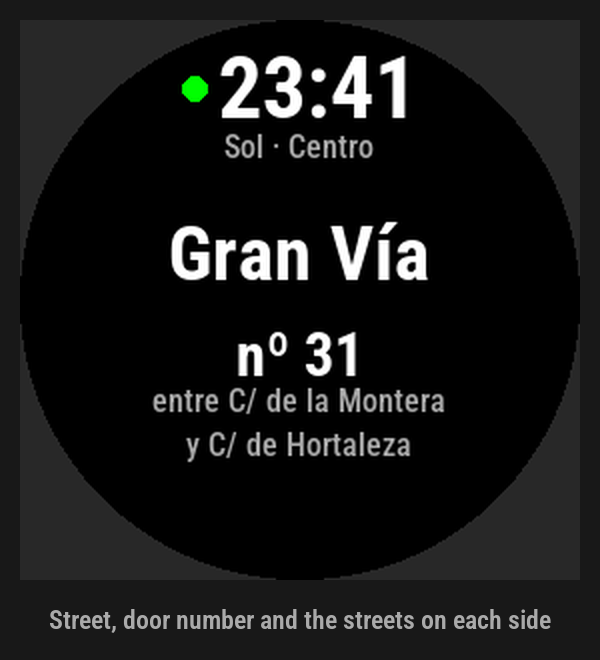
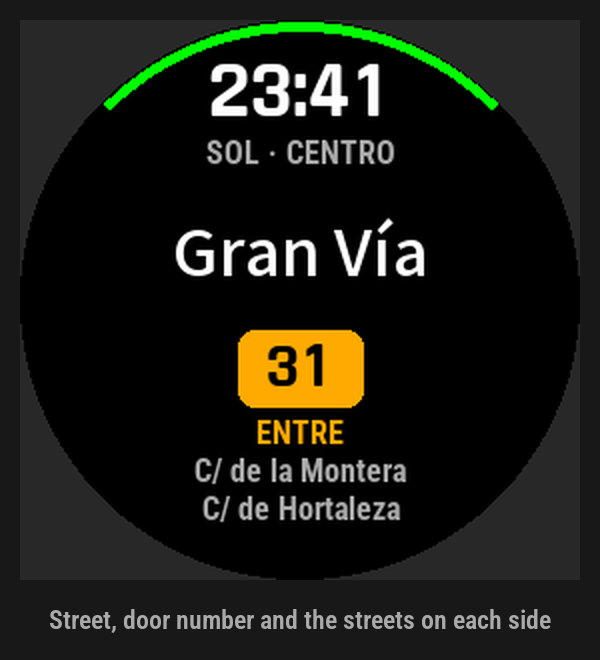
CALLE Madrid 3.4.0: la interfaz de Galicia (P73), carátula sobre Sol e imágenes de la tienda
- tools/caratula.py: la carátula B por región (Galicia: Santiago; Madrid: Puerta del Sol); --instalar escribe las dos.
- tools/mockup.py: la portada de Madrid es ya la carátula, no una pantalla.
- docs/tienda/: las cinco imágenes de Madrid con la interfaz v3.4 y las novedades 3.4.0 (es/en).
- bin/calle-madrid.iq (52,5 MB, 14 dispositivos, firma verificada): lo sube el autor a mano.

Changed region(s): [[0.24, 0.4848, 0.75, 0.7879], [0.18, 0.0303, 0.84, 0.2727], [0.27, 0.3333, 0.72, 0.4242]]

diff --git a/tools/caratula.py b/tools/caratula.py
@@ -3,10 +3,12 @@
 
     tools/caratula.py            las tres propuestas → tools/out/caratulas.png (hoja para elegir)
                                  y tools/out/caratula_<X>.png / icono_<X>.png
-    tools/caratula.py --instalar la elegida (B, 2026-10-25): docs/tienda/galicia/portada_500.png y el icono
-                                 del lanzador, resources/drawables/launcher_icon.png (de todas las apps CALLE)
+    tools/caratula.py --instalar la elegida (B, 2026-10-25): docs/tienda/galicia/portada_500.png,
+                                 docs/tienda/portada_500.png (Madrid) y el icono del lanzador,
+                                 resources/drawables/launcher_icon.png (de todas las apps CALLE)
 
-El fondo es el callejero real del casco de Santiago (tools/out/geom-galicia.json, ODbL), dibujado tenue.
+El fondo es el callejero real de cada app (tools/out/geom-<región>.json, ODbL), dibujado tenue: el casco de
+Santiago en Galicia y la Puerta del Sol en Madrid.
 La pantalla del reloj sale de tools/mockup.py (la escena «Santiago: Rúa do Franco», datos reales).
 """
 import json
@@ -24,6 +26,7 @@ NEGRO, FONDO = (0, 0, 0), (17, 17, 17)
 BLANCO, GRIS, GRIS_OSC = (255, 255, 255), (0xAA, 0xAA, 0xAA), (0x55, 0x55, 0x55)
 AMBAR, AZUL_PLACA = (0xFF, 0xAA, 0x00), (0x1F, 0x3B, 0x73)
 CENTRO = (42.8792, -8.5446)   # casco de Santiago, entre el Obradoiro y la Quintana
+CENTROS = {"galicia": CENTRO, "madrid": (40.4169, -3.7035)}   # Madrid: la Puerta del Sol
 LADO_M = 900                  # metros de mapa que caben en la carátula
 
 
@@ -33,10 +36,10 @@ def fuente(px, peso=700):
     return f
 
 
-def mapa(lado, color, ancho, centro=CENTRO, lado_m=LADO_M, esc=4):
+def mapa(lado, color, ancho, centro=CENTRO, lado_m=LADO_M, esc=4, region="galicia"):
     """El callejero real alrededor de centro, lado_m metros en lado px (dibujado a esc× y reducido)."""
-    meta = json.loads((OUT / "meta-galicia.json").read_text("utf-8"))
-    geom = json.loads((OUT / "geom-galicia.json").read_text("utf-8"))
+    meta = json.loads((OUT / f"meta-{region}.json").read_text("utf-8"))
+    geom = json.loads((OUT / f"geom-{region}.json").read_text("utf-8"))
     cx = (centro[1] - meta["lon_min"]) * meta["kx"]
     cy = (centro[0] - meta["lat_min"]) * meta["ky"]
     g = lado * esc
@@ -128,9 +131,9 @@ def icono_a(lado=40, esc=8):
 
 # ---------------------------------------------------------------- B: el marcador en el cruce
 
-def caratula_b():
+def caratula_b(region="galicia"):
     img = Image.new("RGBA", (500, 500), FONDO + (255,))
-    img.alpha_composite(mapa(500, (0x4A, 0x4A, 0x4A), 2.6))
+    img.alpha_composite(mapa(500, (0x4A, 0x4A, 0x4A), 2.6, centro=CENTROS[region], region=region))
     velo = Image.new("RGBA", (500, 500), (0, 0, 0, 0))
     ImageDraw.Draw(velo).rectangle((0, 330, 500, 500), fill=(10, 10, 10, 235))
     img.alpha_composite(velo)
@@ -138,7 +141,7 @@ def caratula_b():
     d.ellipse((250 - 60, 175 - 60, 250 + 60, 175 + 60), outline=AMBAR + (255,), width=3)
     marcador(d, 250, 140, 38, AMBAR + (255,), hueco=FONDO + (255,))
     texto(d, (250, 382), "CALLE", fuente(78), BLANCO, espacio=8)
-    texto(d, (250, 432), "GALICIA", fuente(28, 500), AMBAR, espacio=12)
+    texto(d, (250, 432), region.upper(), fuente(28, 500), AMBAR, espacio=12)
     texto(d, (250, 470), "LA CALLE Y EL PORTAL, SIN COBERTURA", fuente(21, 500), GRIS, espacio=1)
     return img.convert("RGB")
 
@@ -203,8 +206,10 @@ def main():
     import sys
     if "--instalar" in sys.argv:
         caratula_b().save(ROOT / "docs" / "tienda" / "galicia" / "portada_500.png", optimize=True)
+        caratula_b("madrid").save(ROOT / "docs" / "tienda" / "portada_500.png", optimize=True)
         icono_b().save(ROOT / "resources" / "drawables" / "launcher_icon.png")
-        print("escrito docs/tienda/galicia/portada_500.png y resources/drawables/launcher_icon.png")
+        print("escrito docs/tienda/galicia/portada_500.png, docs/tienda/portada_500.png "
+              "y resources/drawables/launcher_icon.png")
         return
     OUT.mkdir(exist_ok=True)
     props = [("A", "El reloj sobre el mapa", caratula_a(), icono_a()),

diff --git a/tools/mockup.py b/tools/mockup.py
@@ -600,7 +600,7 @@ ESCENAS_GALICIA = [
                                               destino=145, i=1, n=8))),
 ]
 FICHAS = {
-    "madrid": ("", ESCENARIOS, "Madrid: Gran Vía", (("Street, door number and the streets on each side", "Madrid: Gran Vía"),
+    "madrid": ("", ESCENARIOS, None, (("Street, door number and the streets on each side", "Madrid: Gran Vía"),
                                                    ("Neighbourhood and district, offline", "Madrid: barrio · distrito"),
                                                    ("Nearest hospital: arrow and distance", "Ir: hospital"),
                                                    ("Nearest police station", "Ir: comisaría"))),
@@ -620,7 +620,7 @@ def ficha(app="madrid"):
     out = ROOT / "docs" / "tienda" / sub
     out.mkdir(parents=True, exist_ok=True)
     esc = dict(escenas)
-    if portada_de:   # Galicia: la portada es la carátula de tools/caratula.py --instalar
+    if portada_de:   # si no, la portada es la carátula de tools/caratula.py --instalar (Galicia y Madrid)
         portada = Image.new("RGB", (500, 500), (24, 24, 24))
         portada.paste(render(esc[portada_de]).resize((440, 440), Image.LANCZOS), (30, 30))
         portada.save(out / "portada_500.png")

diff --git a/docs/tienda/calle-madrid.md b/docs/tienda/calle-madrid.md
@@ -14,6 +14,11 @@ comprueba en local con `openssl dgst -sha256 -verify dev_key.pub -keyform DER -s
 misma app. El `.iq` pesa 52,5 MB: lo sube el autor a mano, porque el navegador automatizado no pasa de 10 MB.
 La `ficha_2.png` (Argüelles) entra ahora en las imágenes: las cinco, en orden.
 
+**3.4.0 (2026-10-25): la interfaz de CALLE Galicia (P73).** Mismos relojes y mismos datos que la 3.2.0; cambian la
+pantalla, la carátula (el marcador ámbar sobre el callejero de Sol, `tools/caratula.py --instalar`) y el icono.
+Las cinco imágenes, regeneradas (`mockup.py --ficha`). El `.iq` (`bin/calle-madrid.iq`, 52,5 MB, firma verificada)
+lo sube el autor a mano con *Upload New Version*, cuando la 3.2.0 salga de revisión.
+
 **Título «CALLE Madrid (offline)»** (decisión del autor, 2026-10-25: que no usa red es su punto fuerte). Se cambia
 con *Edit Details* en cuanto Garmin apruebe la 3.2.0: no se toca mientras esté en revisión.
 
@@ -47,6 +52,9 @@ Código y método de generación de los datos: https://github.com/TacticalPro/ca
 
 Datos: © colaboradores de OpenStreetMap (ODbL). Fuente: Ayuntamiento de Madrid (datos.madrid.es), CC BY 4.0.
 
+**Novedades (3.4.0):** pantalla nueva: hora grande, calidad del GPS en un arco, número de portal en una pastilla
+ámbar y rótulos en mayúsculas, más legibles con un vistazo. Icono nuevo.
+
 **Novedades (3.2.0):** Madrid entero, también en el fēnix 6X, y llega la familia fēnix 7 (7, 7S, 7X y Pro).
 Datos más compactos.
 
@@ -75,6 +83,9 @@ First release: please send bugs and suggestions to the contact email.
 Source code and how the data is built: https://github.com/TacticalPro/calle-app
 
 Data: © OpenStreetMap contributors (ODbL). Source: Ayuntamiento de Madrid (datos.madrid.es), CC BY 4.0.
+
+**What's new (3.4.0):** new screen: large clock, GPS quality as an arc, the door number on an amber badge and
+upper-case labels, easier to read at a glance. New icon.
 
 **What's new (3.2.0):** all of Madrid, now on the fēnix 6X too, and the fēnix 7 family (7, 7S, 7X and Pro).
 Smaller data.
